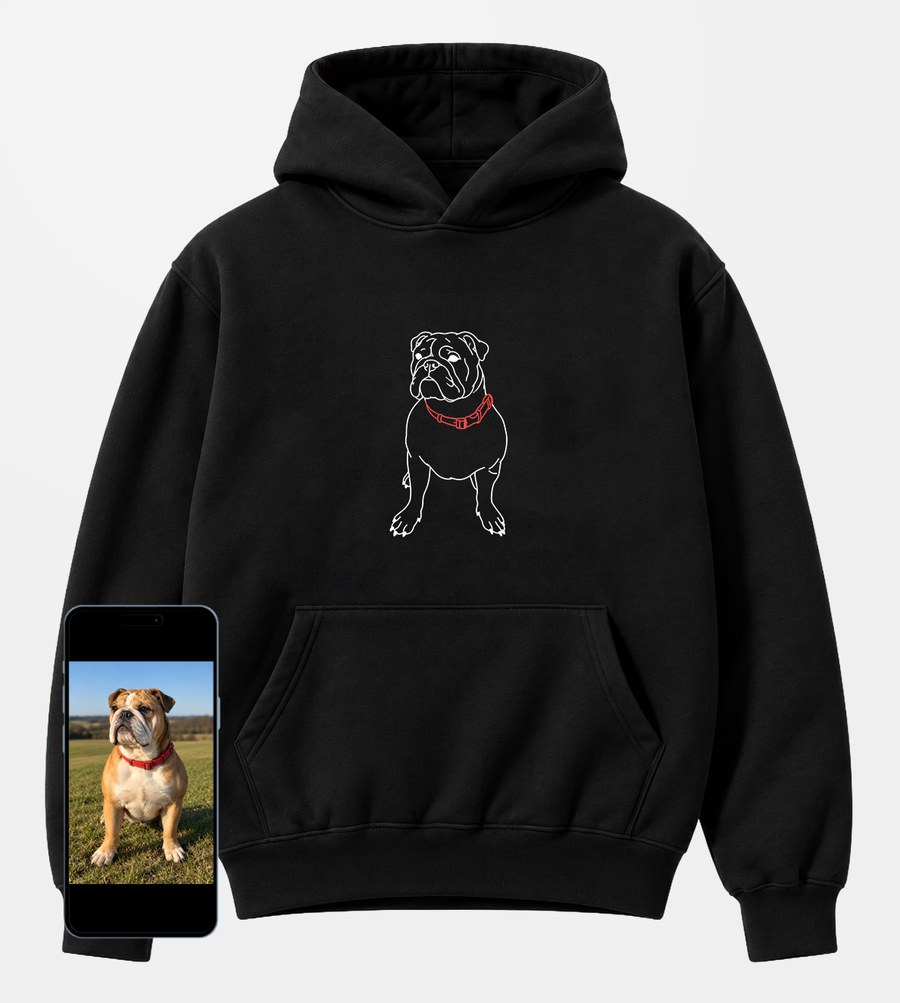
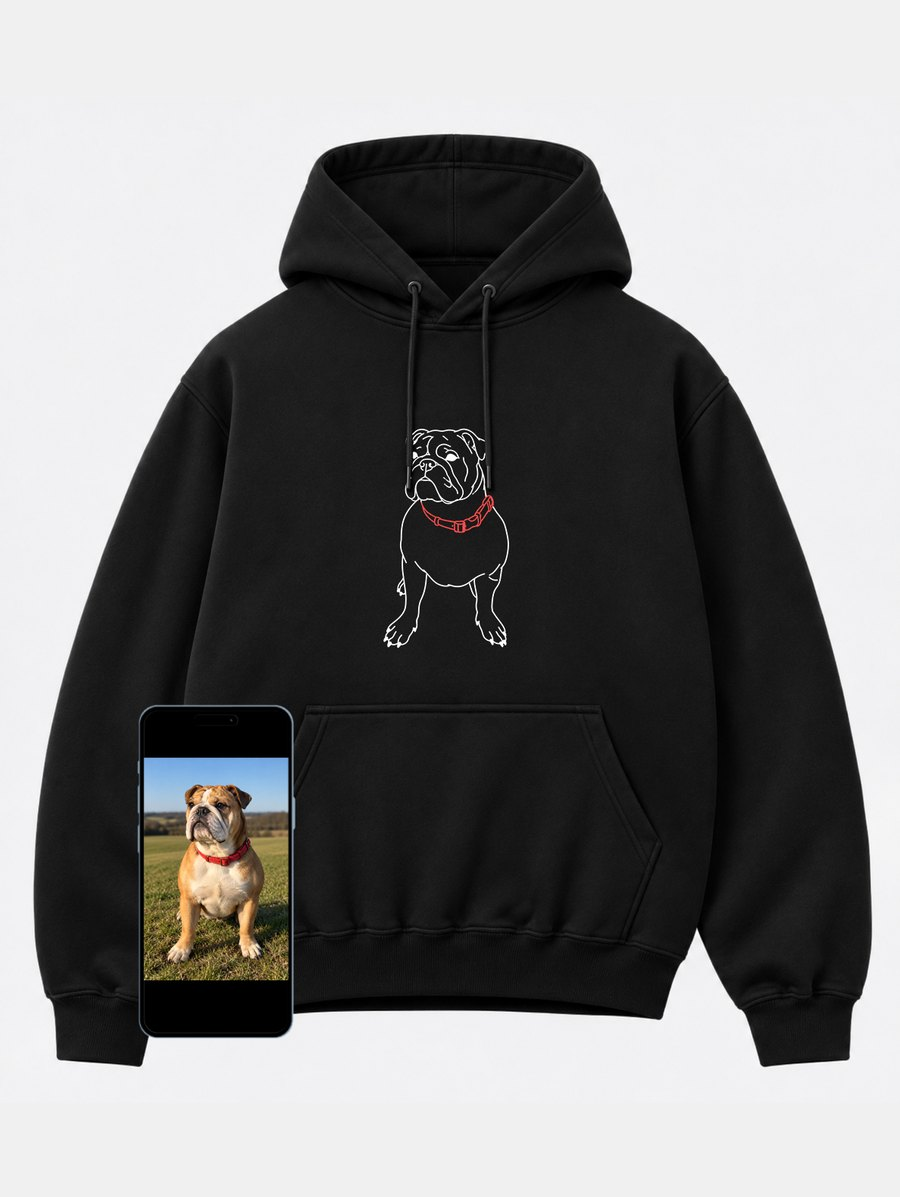
New product photos, sweatshirts tab, hover variants (hoodie white, tee red, sweatshirt white)
Claude-Session: https://claude.ai/code/session_01VKBjmLWPkMjNttgn7Ef4Kk

diff --git a/components/Shop.jsx b/components/Shop.jsx
@@ -211,7 +211,7 @@ export default function Shop() {
   const tabsRef = useRef(null);
   useLayoutEffect(() => {
     const place = () => {
-      const b = document.getElementById(kind === 'tee' ? 't-tee' : 't-hoodie');
+      const b = document.getElementById('t-' + kind);
       if (b) setHeartX(b.offsetLeft + b.offsetWidth / 2);
     };
     place();
@@ -401,8 +401,8 @@ export default function Shop() {
                 <button role="tab" id="t-hoodie" aria-selected={kind === 'hoodie'} onClick={() => setKind('hoodie')}>
                   <span className="tw"><span className="t1">Худита</span><span className="t2" aria-hidden="true">Худита</span></span>
                 </button>
-                <button role="tab" id="t-top" disabled aria-disabled="true" title="Скоро">
-                  <span className="tw"><span className="t1">Блузи</span></span>
+                <button role="tab" id="t-sweat" aria-selected={kind === 'sweat'} onClick={() => setKind('sweat')}>
+                  <span className="tw"><span className="t1">Блузи</span><span className="t2" aria-hidden="true">Блузи</span></span>
                 </button>
               </div>
             </section>
@@ -413,7 +413,7 @@ export default function Shop() {
                   <div className="cf">
                     <div className="im">
                       <img className="a" src={img(kind, 'b', i)} alt={d.n} loading="lazy" />
-                      <img className="b" src={img(kind, 'w', i)} alt="" loading="lazy" />
+                      <img className="b" src={img(kind, kind === 'tee' ? 'r' : 'w', i)} alt="" loading="lazy" />
                     </div>
                     <h3>{d.n}</h3>
                     <p className="pr">{eur(KIND[kind].price)}</p>

diff --git a/lib/data.js b/lib/data.js
@@ -15,6 +15,15 @@ export const KIND = {
       rows: [['S', 57, 70], ['M', 62, 72], ['L', 67, 74], ['XL', 72, 76], ['2XL', 77, 79]],
     },
   },
+  sweat: {
+    one: 'Блуза', plural: 'блузите', price: 4499, prefix: 's', note: 'Блузите са мъжки модел.',
+    colors: [['Черна блуза + бял конец', 'b'], ['Бяла блуза + черен конец', 'w']],
+    sizes: ['S', 'M', 'L', 'XL', '2XL'],
+    chart: {
+      cols: ['Размер', 'Ширина (см)', 'Дължина (см)'],
+      rows: [['S', 50.8, 68.5], ['M', 55.8, 71], ['L', 62, 73.5], ['XL', 66, 76], ['2XL', 71, 78.7]],
+    },
+  },
   tee: {
     one: 'Тениска', plural: 'тениските', price: 3499, prefix: 't',
     colors: [['Черна тениска + бял конец', 'b'], ['Бяла тениска + черен конец', 'w']],

diff --git a/app/globals.css b/app/globals.css
@@ -332,7 +332,7 @@ dialog[open]{will-change:transform,opacity;backface-visibility:hidden}
 @media(max-width:600px){.oim{width:76px;height:76px}}
 
 /* ===== прозорци – в стила на новия дизайн ===== */
-.im{aspect-ratio:1188/1324;width:100%;position:relative;overflow:hidden;background:var(--ph);border:3px solid var(--red)}
+.im{aspect-ratio:1188/1580;width:100%;position:relative;overflow:hidden;background:var(--ph);border:3px solid var(--red)}
 .im img{position:absolute;inset:0;width:100%;height:100%;object-fit:cover}
 dialog{background:var(--cream);border-radius:28px;color:var(--ink);box-shadow:0 24px 70px rgba(60,0,10,.45)}
 dialog::backdrop{background:rgba(92,8,20,.62);backdrop-filter:blur(3px)}

diff --git a/components/SizeDialog.jsx b/components/SizeDialog.jsx
@@ -9,7 +9,7 @@ export default function SizeDialog({ kind, onClose }) {
       {K && (
         <div className="in" id="scb">
           <h2>Размери – {K.one}</h2>
-          <p className="uni"><b>Унисекс</b> – {K.plural} са един и същ модел за жени и мъже.</p>
+          {K.note ? <p className="uni"><b>Мъжки модел</b> – {K.note}</p> : <p className="uni"><b>Унисекс</b> – {K.plural} са един и същ модел за жени и мъже.</p>}
           <div style={{ overflowX: 'auto' }}>
             <table>
               <tbody>

diff --git a/api.php b/api.php
@@ -3,11 +3,12 @@
 // Изисква PHP 7.4+ с PDO SQLite и cURL (има ги на GoDaddy cPanel хостинг).
 require __DIR__ . '/config.php';
 
-const PRICES = ['hoodie' => 4500, 'tee' => 3500];
+const PRICES = ['hoodie' => 4500, 'sweat' => 4499, 'tee' => 3500];
 const TEXT_ADD = 100;
 const DESIGNS = ['Персонализирана бродерия по снимка', 'Персонализирана бродерия на домашен любимец', 'Персонализирана бродерия на починал близък'];
 const KINDS = [
     'hoodie' => ['name' => 'Худи', 'colors' => ['Черно худи + бял конец', 'Бяло худи + черен конец'], 'sizes' => ['S', 'M', 'L', 'XL', '2XL']],
+    'sweat' => ['name' => 'Блуза', 'colors' => ['Черна блуза + бял конец', 'Бяла блуза + черен конец'], 'sizes' => ['S', 'M', 'L', 'XL', '2XL']],
     'tee' => ['name' => 'Тениска', 'colors' => ['Черна тениска + бял конец', 'Бяла тениска + черен конец'], 'sizes' => ['XS', 'S', 'M', 'L', 'XL', '2XL']],
 ];
 const COURIERS = ['speedy' => 'Спиди', 'econt' => 'Еконт'];

diff --git a/public/api.php b/public/api.php
@@ -3,11 +3,12 @@
 // Изисква PHP 7.4+ с PDO SQLite и cURL (има ги на GoDaddy cPanel хостинг).
 require __DIR__ . '/config.php';
 
-const PRICES = ['hoodie' => 4999, 'tee' => 3499];
+const PRICES = ['hoodie' => 4999, 'sweat' => 4499, 'tee' => 3499];
 const TEXT_ADD = 100;
 const DESIGNS = ['Персонализирана бродерия по снимка', 'Персонализирана бродерия на домашен любимец', 'Персонализирана бродерия на починал близък'];
 const KINDS = [
     'hoodie' => ['name' => 'Худи', 'colors' => ['Черно худи + бял конец', 'Бяло худи + черен конец'], 'sizes' => ['S', 'M', 'L', 'XL', '2XL']],
+    'sweat' => ['name' => 'Блуза', 'colors' => ['Черна блуза + бял конец', 'Бяла блуза + черен конец'], 'sizes' => ['S', 'M', 'L', 'XL', '2XL']],
     'tee' => ['name' => 'Тениска', 'colors' => ['Черна тениска + бял конец', 'Бяла тениска + черен конец'], 'sizes' => ['XS', 'S', 'M', 'L', 'XL', '2XL']],
 ];
 const COURIERS = ['speedy' => 'Спиди', 'econt' => 'Еконт'];
